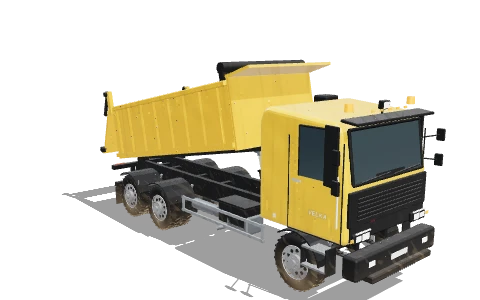
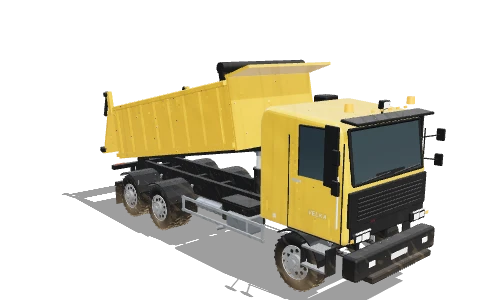
v5.4.1: 3D model fixes from the model audit + refreshed thumbnails
- Plane: wing struts run from the belly out to the wing, gear legs reach
  the fuselage, propeller sits on the cowling; car roof covers the cab
- BL4: headlights and grille out of the hood, door steps under the door,
  lift cylinders anchored inside the hood
- Dozer track fenders and lamps sit on the tracks; tracked dumper seat
  on its pedestal; tipper tanks/battery on the rails, tipping ram on the
  cross member; pickup seats, dash and wheel at cabin height
- Machine thumbnails re-rendered

Claude-Session: https://claude.ai/code/session_01EynHmZRwtARegvioyU37P7

Changed region(s): [[0.375, 0.63, 0.5625, 0.75], [0.5312, 0.51, 0.5625, 0.6]]

diff --git a/src/mx-vehicles.js b/src/mx-vehicles.js
@@ -344,7 +344,7 @@ export function buildDozer(m) {
   for (const s of [-1, 1]) { const tu = buildTrackUnit(null, { length: 4.0, radius: 0.48, width: 0.62, rollers: 7, frameColor: K.under, mats: K, side: s }); tu.group.position.x = s * 1.25; U.add(tu.group); m.tracks.push(tu); }
   // main frame, track fenders with lamps, sloping engine hood, radiator guard, front pull hook
   add(U, mergeG([rbox(1.6, 0.5, 3.9, 0.05, 0, 0.98, -0.05), rbox(1.75, 0.3, 0.3, 0.04, 0, 0.95, 1.98), cy(0.05, 0.05, 0.3, 10, 0, 0.95, 2.16, 0, 0, Math.PI / 2)]), K.dark);
-  for (const s of [-1, 1]) { add(U, rbox(0.76, 0.07, 3.35, 0.02, s * 1.25, 1.24, -0.15), K.paint); workLight(U, K, s * 1.12, 1.42, 1.5, 0, 0.1, 0.9); }
+  for (const s of [-1, 1]) { add(U, rbox(0.8, 0.07, 3.35, 0.02, s * 1.2, 1.14, -0.15), K.paint); workLight(U, K, s * 1.12, 1.25, 1.5, 0, 0.1, 0.9); }
   add(U, prism(roundPoly([[0.24, 1.24, 0], [0.24, 2.3, 0.06], [1.3, 2.2, 0.3], [1.8, 1.9, 0.14], [1.84, 1.24, 0]]), 1.5), K.paint);
   grille(U, 1.18, 0.56, 0, 1.58, 1.855, 0, 16);
   add(U, mergeG([bx(1.45, 0.07, 0.08, 0, 1.92, 1.9), bx(1.45, 0.07, 0.08, 0, 1.27, 1.9), bx(0.07, 0.7, 0.08, 0.66, 1.6, 1.9), bx(0.07, 0.7, 0.08, -0.66, 1.6, 1.9), bx(0.05, 0.6, 0.05, 0.22, 1.6, 1.92), bx(0.05, 0.6, 0.05, -0.22, 1.6, 1.92),
@@ -406,7 +406,7 @@ export function buildDumper(m) {
   add(U, mergeG([cy(0.06, 0.06, 0.5, 12, 0.55, 2.05, 1.3), cy(0.07, 0.065, 0.05, 12, 0.55, 2.31, 1.3)]), K.black);
   add(U, mergeG([cy(0.55, 0.58, 0.12, 36, 0, 1.12, -0.35), boltCircle(V(0, 1.18, -0.35), 0.5, 16, V(0, 1, 0), 0.014)]), K.dark);
   // operator seat at the front with ROPS
-  const st = new THREE.Group(); st.position.set(0, 1.9, 1.15); U.add(st);
+  const st = new THREE.Group(); st.position.set(0, 1.72, 1.15); U.add(st);
   seat(K, st, 0, 0.2, -0.05, 0);
   add(st, mergeG([rbox(0.4, 0.4, 0.2, 0.04, 0, 0.3, 0.4)]), K.plastic, false);
   // two-post ROPS behind the seat with a guard screen towards the skip, roof reaching forward over the operator
@@ -653,10 +653,10 @@ export function buildPickup(m) {
   // mirrors
   for (const s of [-1, 1]) add(U, mergeG([rbox(0.06, 0.16, 0.24, 0.02, s * (W / 2 + 0.14), BELT + 0.12, CF - 0.2), bx(0.14, 0.03, 0.04, s * (W / 2 + 0.06), BELT + 0.05, CF - 0.15)]), K.black);
   // interior: two front seats, rear bench, dash and wheel (driver on the left)
-  seat(K, U, -0.4, SILL + 0.05, cz + 0.2); seat(K, U, 0.4, SILL + 0.05, cz + 0.2);
-  add(U, mergeG([rbox(1.5, 0.14, 0.5, 0.04, 0, SILL + 0.1, CB + 0.35), rbox(1.5, 0.55, 0.1, 0.04, 0, SILL + 0.4, CB + 0.1)]), K.plastic, false);
-  add(U, mergeG([rbox(W - 0.2, 0.25, 0.4, 0.05, 0, BELT - 0.02, CF - 0.25)]), K.plastic, false);
-  steeringWheel(K, U, -0.4, BELT + 0.05, CF - 0.5, 0.95);
+  seat(K, U, -0.4, BELT + 0.04, cz + 0.2); seat(K, U, 0.4, BELT + 0.04, cz + 0.2);
+  add(U, mergeG([rbox(1.5, 0.14, 0.5, 0.04, 0, BELT + 0.08, CB + 0.35), rbox(1.5, 0.5, 0.1, 0.04, 0, BELT + 0.35, CB + 0.1)]), K.plastic, false);
+  add(U, mergeG([rbox(W - 0.2, 0.25, 0.4, 0.05, 0, BELT + 0.12, CF - 0.25)]), K.plastic, false);
+  steeringWheel(K, U, -0.4, BELT + 0.38, CF - 0.55, 0.95);
   // light bar on the roof
   add(U, mergeG([rbox(1.2, 0.08, 0.2, 0.03, 0, ROOF + 0.09, cz + 0.4), ...[-1, 1].map((s) => bx(0.04, 0.08, 0.06, s * 0.5, ROOF + 0.04, cz + 0.4))]), K.black);
   m.beacon = add(U, mergeG([-0.4, -0.13, 0.13, 0.4].map((x) => cy(0.055, 0.055, 0.1, 12, x, ROOF + 0.17, cz + 0.4))), K.amber, false);
@@ -671,7 +671,7 @@ export function buildPickup(m) {
   // headache rack behind the cab
   add(U, mergeG([...[-1, 1].map((s) => cy(0.025, 0.025, 0.55, 8, s * 0.78, ROOF - 0.3, TZ0 - 0.06)), cy(0.025, 0.025, 1.56, 8, 0, ROOF - 0.05, TZ0 - 0.06, 0, 0, Math.PI / 2)]), K.black);
   for (const s of [-1, 1]) { const l = label(m.spec.brand, 0.75, 0.17, '#15171a'); l.position.set(s * (W / 2 + 0.01), FL + 0.24, tz); l.rotation.y = s * Math.PI / 2; U.add(l); }
-  m.seat = anchor(U, -0.4, BELT + 0.3, cz + 0.12);
+  m.seat = anchor(U, -0.4, BELT + 0.6, cz + 0.12);
   m.door = anchor(U, 1.25, 0, cz + 0.3);
   m.attach = U; m.att = attStub('car', { grab: anchor(U, 0, FL + 0.3, tz) }); m.grabPoint = m.att.grab;
   m.colliderSets.push({ obj: U, boxes: [[0, (SILL + BELT) / 2 + 0.04, (ZN + ZT) / 2, W, BELT - SILL + 0.12, ZN - ZT], [0, (BELT + ROOF) / 2, (CF - 0.3 + CB) / 2, W - 0.2, ROOF - BELT, CF - 0.3 - CB]], chassis: true });

diff --git a/src/mx-truck.js b/src/mx-truck.js
@@ -109,11 +109,11 @@ export function buildTruck(m) {
   add(U, mergeG([bx(0.52, 0.12, 0.01, 0, 0.98, RE - 0.08)]), m.ctx.M.paintWhite || K.grey, false);
   // fuel tank (polished aluminium, straps), AdBlue tank, battery box, air tanks, side guards
   const tz = Z.tank, az = Z.ad, rz = Z.air;
-  add(U, mergeG([rbox(0.55, 0.62, 1.35, 0.14, 0.88, 0.95, tz)]), K.galv);
-  add(U, mergeG([bx(0.6, 0.04, 0.06, 0.88, 0.95, tz + 0.55), bx(0.6, 0.04, 0.06, 0.88, 0.95, tz - 0.55), cy(0.06, 0.06, 0.06, 12, 0.88, 1.3, tz + 0.45)]), K.black);
-  add(U, mergeG([rbox(0.45, 0.42, 0.5, 0.08, 0.86, 0.9, az), cy(0.05, 0.05, 0.05, 10, 0.86, 1.13, az + 0.15)]), K.grey);
-  add(U, mergeG([rbox(0.5, 0.45, 0.9, 0.04, -0.85, 0.95, tz), bx(0.52, 0.04, 0.92, -0.85, 1.19, tz)]), K.black);
-  add(U, mergeG([cy(0.13, 0.13, 0.9, 16, -0.75, 0.75, rz, Math.PI / 2), cy(0.13, 0.13, 0.9, 16, 0.25, 0.75, rz - 0.2, Math.PI / 2)]), K.steel);
+  add(U, mergeG([rbox(0.55, 0.62, 1.35, 0.14, 0.775, 0.95, tz)]), K.galv);
+  add(U, mergeG([bx(0.6, 0.04, 0.06, 0.775, 0.95, tz + 0.55), bx(0.6, 0.04, 0.06, 0.775, 0.95, tz - 0.55), cy(0.06, 0.06, 0.06, 12, 0.775, 1.3, tz + 0.45)]), K.black);
+  add(U, mergeG([rbox(0.45, 0.42, 0.5, 0.08, 0.725, 0.9, az), cy(0.05, 0.05, 0.05, 10, 0.725, 1.13, az + 0.15)]), K.grey);
+  add(U, mergeG([rbox(0.5, 0.45, 0.9, 0.04, -0.75, 0.95, tz), bx(0.52, 0.04, 0.92, -0.75, 1.19, tz)]), K.black);
+  add(U, mergeG([cy(0.13, 0.13, 0.9, 16, -0.63, 0.75, rz, Math.PI / 2), cy(0.13, 0.13, 0.9, 16, 0.25, 0.75, rz - 0.2, Math.PI / 2)]), K.steel);
   { const [gz, gl] = Z.guard; for (const s of [-1, 1]) add(U, mergeG([bx(0.04, 0.06, gl, s * 1.18, 0.7, gz), bx(0.04, 0.06, gl, s * 1.18, 1.0, gz), bx(0.04, 0.38, 0.06, s * 1.18, 0.85, gz + gl / 2 - 0.05), bx(0.04, 0.38, 0.06, s * 1.18, 0.85, gz - gl / 2 + 0.05)]), K.galv); }
   // exhaust: silencer box under the right step, tail pipe
   add(U, mergeG([rbox(0.5, 0.4, 0.7, 0.06, -0.85, 0.8, 1.35), tubeAB(V(-1.1, 0.7, 1.1), V(-1.25, 0.62, 0.9), 0.05)]), K.steel);
@@ -259,7 +259,7 @@ export function buildTruck(m) {
   stick(tail, 'warn', 0.3, BW / 2 - 0.3, -GA - BH * 0.5, -0.09, Math.PI);
   m.tailgate = tail;
   // front telescopic tipping cylinder: chassis -> body underside near the headboard
-  cylinder(m, anchor(U, 0, 1.1, 1.25), anchor(body, 0, -0.05, L - 0.55), 0.13, 0.08);
+  cylinder(m, anchor(U, 0, 1.1, 0.9), anchor(body, 0, -0.05, L - 0.55), 0.13, 0.08);
   m.att = { group: body, jaws: [], probes: [], colliders: [], behaviour: 'bed', bulk: null, pieces: 0, grab: anchor(body, 0, 0.6, L / 2), wakeR: 4.6,
     dump: { from: 0.75, dir: new THREE.Vector3(0, 0, -1), box: [BW / 2 + 0.2, L + 0.3, BH + 1.2] } };
   m.grabPoint = m.att.grab;

diff --git a/src/incidents.js b/src/incidents.js
@@ -46,7 +46,7 @@ function wreckParts(kind, seed) {
     // gear collapsed, so it sits on its belly with the tail cocked up
     const W = 0xf2f2ee, S = [0xd8262b, 0x1f6fd0, 0xf2b200][Math.floor(r() * 3)], G = 0x7fb8d8, D = 0x2a2c30;
     out.push([0, 0.62, 0.05, 1.0, 0.9, 0.6, W]);                      // engine cowling, stuck in the wall
-    out.push([0.1, 0.62, -0.4, 0.1, 1.2, 0.14, D, 0, 0.45]);          // bent propeller
+    out.push([0.1, 0.62, -0.32, 0.1, 1.2, 0.14, D, 0, 0.45]);          // bent propeller
     for (const [z, c] of [[0.95, W], [2.15, W]]) out.push([0, 0.62, z, 1.12, 0.8, 1.2, c]);   // cabin, lower
     for (const z of [0.95, 2.15]) out.push([0, 1.3, z, 1.04, 0.56, 1.2, G]);                  // cabin windows
     for (const [z, w, h, y, c] of [[3.35, 1.0, 0.95, 0.75, S], [4.55, 0.86, 0.8, 0.85, W], [5.75, 0.72, 0.66, 0.97, S], [6.9, 0.56, 0.52, 1.1, W]]) out.push([0, y, z, w, h, 1.2, c]); // tapering tail cone
@@ -59,9 +59,9 @@ function wreckParts(kind, seed) {
     out.push([4.95, 1.64, 1.55, 1.15, 0.12, 1.3, S]);
     out.push([-5.6, 0.07, 2.6, 1.15, 0.12, 1.3, S, 0, 0.0, 0.35]);
     // wing struts from the belly to under the wing
-    for (const sg of [-1, 1]) out.push([sg * 1.32, 1.08, 1.75, 0.07, 1.25, 0.12, W, 0, sg * 0.82]);
+    for (const sg of [-1, 1]) out.push([sg * 1.3, 0.92, 1.75, 0.07, 1.8, 0.12, W, 0, -sg * 0.89]); // foot on the belly, top out under the wing
     // main gear: legs and spatted wheels; the nose wheel broke off
-    for (const sg of [-1, 1]) { out.push([sg * 1.05, 0.38, 2.45, 0.08, 0.5, 0.1, D, 0, sg * 0.6]); out.push([sg * 1.3, 0.2, 2.45, 0.2, 0.4, 0.62, W]); }
+    for (const sg of [-1, 1]) { out.push([sg * 0.88, 0.3, 2.45, 0.08, 0.7, 0.1, D, 0, sg * 1.45]); out.push([sg * 1.3, 0.2, 2.45, 0.2, 0.4, 0.62, W]); }
     out.push([0.9, 0.17, -0.6, 0.16, 0.34, 0.34, D]);
   } else {
     const C = CAR_COLORS[Math.floor(r() * CAR_COLORS.length)], G = 0x6a8fa6, D = 0x1e1f22, M = 0x9a9ea2;
@@ -70,7 +70,7 @@ function wreckParts(kind, seed) {
     for (const z of [0.95, 2.25, 3.55]) out.push([0, 0.55, z, 1.78, 0.62, 1.3, C]);
     out.push([0, 1.15, 1.9, 1.56, 0.55, 1.15, G]);                     // windscreen / side glass
     out.push([0, 1.15, 3.05, 1.56, 0.55, 1.15, C]);
-    out.push([0, 1.48, 2.45, 1.6, 0.1, 2.1, C]);                       // roof
+    out.push([0, 1.48, 2.475, 1.6, 0.1, 2.25, C]);                       // roof
     for (const s of [-1, 1]) for (const z of [1.0, 3.3]) out.push([s * 0.98, 0.32, z, 0.26, 0.62, 0.62, D]);
     out.push([0, 0.62, 4.3, 1.7, 0.42, 0.25, M]);                      // rear bumper / boot lid
   }

diff --git a/src/mx-fun.js b/src/mx-fun.js
@@ -305,13 +305,13 @@ export function buildBackhoe(m, arm) {
   const hood = prismZY([[0.55, 0.95], [2.35, 0.95], [2.55, 1.15], [2.5, 1.55], [2.2, 1.72], [0.55, 1.78]], 1.05);
   add(U, hood, K.paint);
   add(U, mergeG([rbox(1.2, 0.3, 0.25, 0.05, 0, 0.72, 2.55), rbox(1.3, 0.12, 0.3, 0.03, 0, 0.92, 2.55)]), K.accent);
-  grille(U, 0.75, 0.35, 0, 1.3, 2.55, 0, 18);
-  for (const s of [-1, 1]) { add(U, rbox(0.2, 0.12, 0.05, 0.02, s * 0.38, 1.6, 2.24), K.lens, false); add(U, rbox(0.16, 0.08, 0.04, 0.02, s * 0.5, 0.82, 2.69), K.amber, false); }
+  grille(U, 0.75, 0.35, 0, 1.3, 2.575, 0, 18);
+  for (const s of [-1, 1]) { add(U, rbox(0.2, 0.12, 0.05, 0.02, s * 0.38, 1.6, 2.43), K.lens, false); add(U, rbox(0.16, 0.08, 0.04, 0.02, s * 0.5, 0.82, 2.69), K.amber, false); }
   add(U, mergeG([cy(0.06, 0.07, 0.6, 12, 0.3, 2.05, 1.55), cy(0.08, 0.08, 0.05, 12, 0.3, 2.36, 1.55)]), K.black); // exhaust stack
   // fenders: front mudguards and big rear arches that double as steps
   const arch = (z, y, r, w, x) => shell(curvePts([[z + r * 0.95, y + r * 0.2], [z + r * 0.6, y + r * 0.85], [z, y + r * 1.05], [z - r * 0.6, y + r * 0.85], [z - r * 0.95, y + r * 0.2]].map(([a, b]) => [a, b]), 16), 0.04, w).translate(x, 0, 0);
   add(U, mergeG([arch(ZR, RR, RR + 0.12, 0.6, -TR), arch(ZR, RR, RR + 0.12, 0.6, TR), arch(ZF, RF, RF + 0.1, 0.46, -TF), arch(ZF, RF, RF + 0.1, 0.46, TF)]), K.paint);
-  add(U, mergeG([rbox(0.4, 0.05, 0.3, 0.01, 1.25, 0.55, -0.1), rbox(0.4, 0.05, 0.3, 0.01, 1.25, 0.9, -0.1)]), K.dark); // steps
+  add(U, mergeG([rbox(0.4, 0.05, 0.3, 0.01, 0.95, 0.55, -0.1), rbox(0.4, 0.05, 0.3, 0.01, 0.95, 0.9, -0.1)]), K.dark); // steps
   // cab (the operator faces forward to drive)
   modernCab(m, U, 0, 1.0, -0.35, { w: 1.5, d: 1.75, h: 2.05, door: 1, roofMat: K.paint });
   m.door = m.anchor(U, 1.45, 0, -0.2);
@@ -329,7 +329,7 @@ export function buildBackhoe(m, arm) {
   m.frontFrame = FB;
   m.frontMouth = point(FB, 0, -0.15, 0.45);
   for (const s of [-1, 1]) {
-    cylinder(m, m.anchor(U, s * 0.62, 0.95, 0.95), m.anchor(LA, s * 0.88, -0.32, 1.45), 0.09, 0.055);
+    cylinder(m, m.anchor(U, s * 0.5, 0.95, 0.95), m.anchor(LA, s * 0.88, -0.32, 1.45), 0.09, 0.055);
     cylinder(m, m.anchor(LA, s * 0.6, -0.15, 1.9), m.anchor(FB, s * 0.6, 0.38, -0.1), 0.075, 0.045);
   }
 

diff --git a/public/index.html b/public/index.html
@@ -31,7 +31,7 @@
       <div id="titleMsg" class="title-msg"></div>
     </div>
   </div>
-  <div class="title-foot"><span>Smash buildings · crush the rubble · mix cement · fix the road</span><span class="ver">v5.4.0</span></div>
+  <div class="title-foot"><span>Smash buildings · crush the rubble · mix cement · fix the road</span><span class="ver">v5.4.1</span></div>
 </div>
 
 <!-- HUD -->
